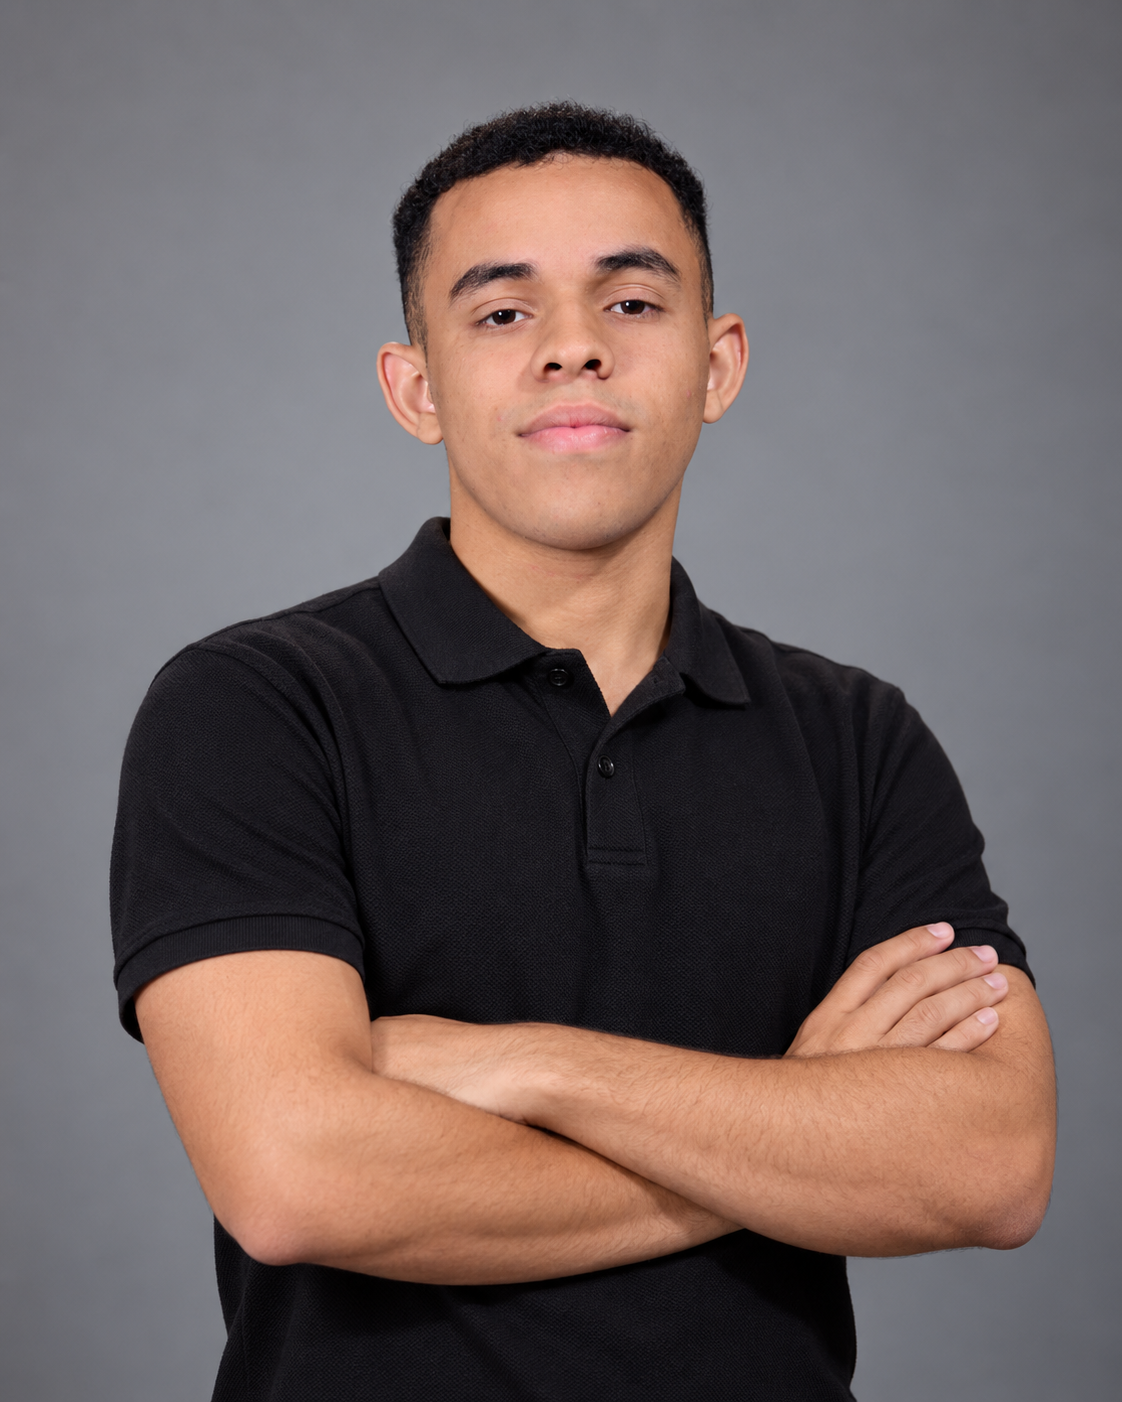
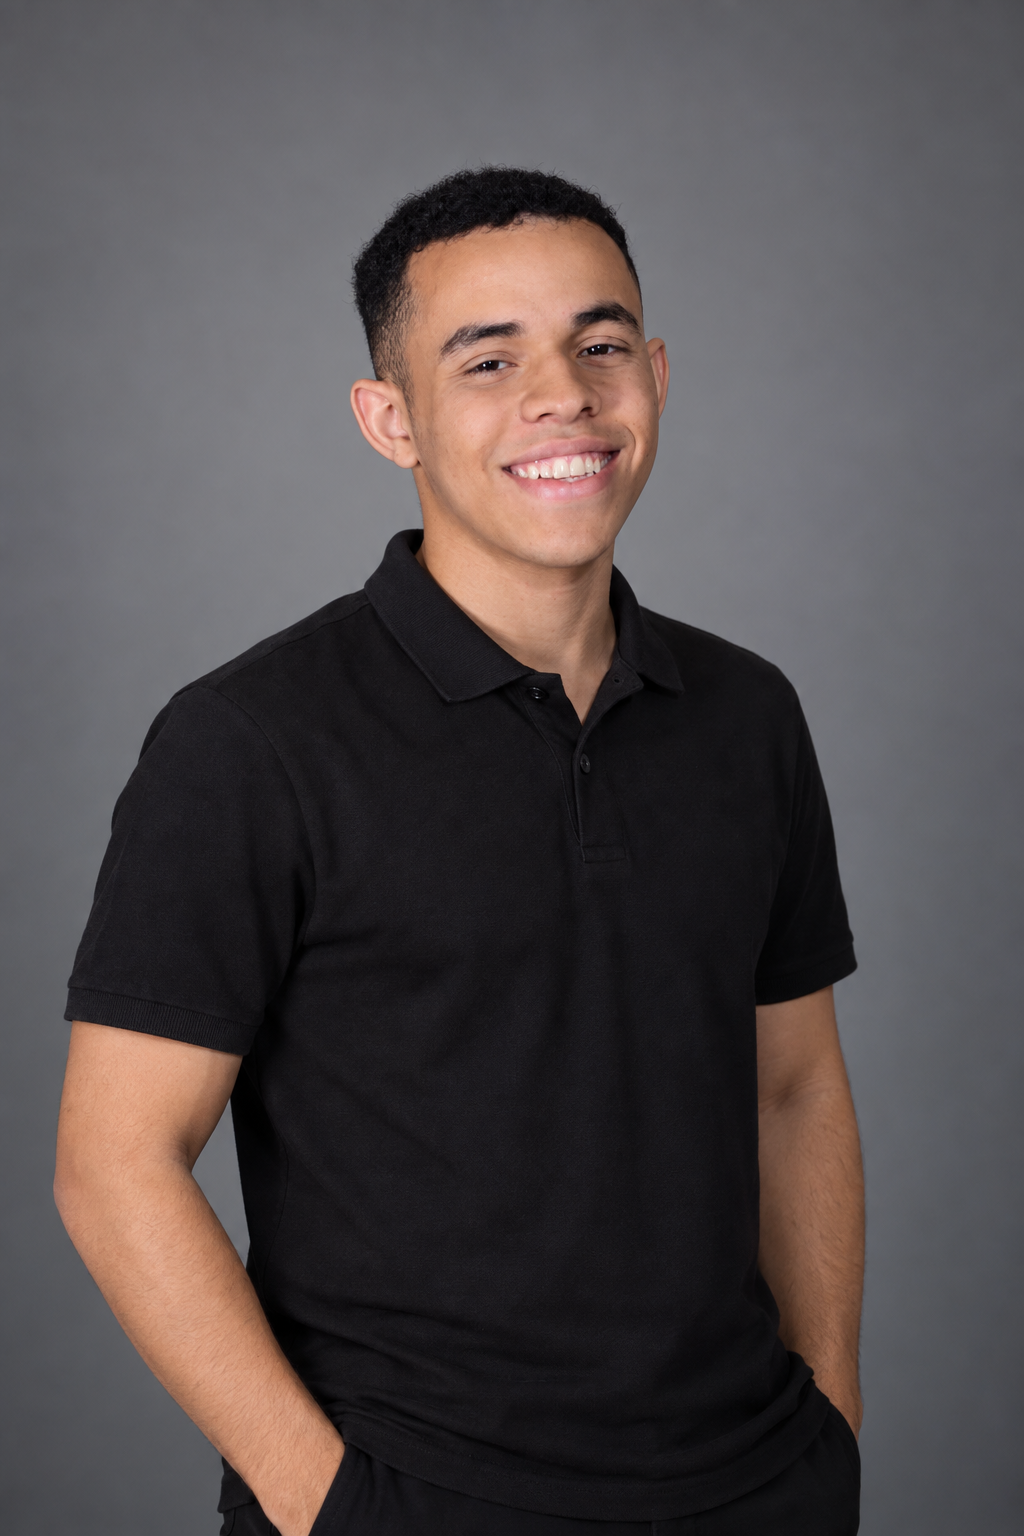
feat: add dark theme and update profile photo

diff --git a/src/app/shared/components/navbar/navbar.html b/src/app/shared/components/navbar/navbar.html
@@ -11,24 +11,44 @@
       }
     </div>
 
-    <a class="contact-link" href="#contato">
-      <span>Contato</span>
-      <svg viewBox="0 0 16 16" aria-hidden="true">
-        <path d="M3 13 13 3M6 3h7v7" />
-      </svg>
-    </a>
+    <div class="nav-actions">
+      <button
+        class="theme-button"
+        type="button"
+        [attr.aria-label]="darkTheme() ? 'Ativar tema claro' : 'Ativar tema escuro'"
+        [attr.title]="darkTheme() ? 'Ativar tema claro' : 'Ativar tema escuro'"
+        (click)="toggleTheme()"
+      >
+        <svg viewBox="0 0 24 24" aria-hidden="true">
+          @if (darkTheme()) {
+            <circle cx="12" cy="12" r="4" />
+            <path d="M12 2v2m0 16v2M4.9 4.9l1.4 1.4m11.4 11.4 1.4 1.4M2 12h2m16 0h2M4.9 19.1l1.4-1.4M17.7 6.3l1.4-1.4" />
+          } @else {
+            <path d="M20.5 15.5A8.5 8.5 0 0 1 8.5 3.5 8.5 8.5 0 1 0 20.5 15.5Z" />
+          }
+        </svg>
+        <span class="theme-label">{{ darkTheme() ? 'Tema claro' : 'Tema escuro' }}</span>
+      </button>
 
-    <button
-      class="menu-button"
-      type="button"
-      [attr.aria-label]="menuOpen() ? 'Fechar menu de navegação' : 'Abrir menu de navegação'"
-      [attr.aria-expanded]="menuOpen()"
-      aria-controls="mobile-navigation"
-      (click)="onClickToggleMenu()"
-    >
-      <span></span>
-      <span></span>
-    </button>
+      <a class="contact-link" href="#contato">
+        <span>Contato</span>
+        <svg viewBox="0 0 16 16" aria-hidden="true">
+          <path d="M3 13 13 3M6 3h7v7" />
+        </svg>
+      </a>
+
+      <button
+        class="menu-button"
+        type="button"
+        [attr.aria-label]="menuOpen() ? 'Fechar menu de navegação' : 'Abrir menu de navegação'"
+        [attr.aria-expanded]="menuOpen()"
+        aria-controls="mobile-navigation"
+        (click)="onClickToggleMenu()"
+      >
+        <span></span>
+        <span></span>
+      </button>
+    </div>
 
     @if (menuOpen()) {
       <div class="mobile-nav" id="mobile-navigation">

diff --git a/src/app/shared/components/navbar/navbar.scss b/src/app/shared/components/navbar/navbar.scss
@@ -35,7 +35,7 @@
   height: 2.5rem;
   display: grid;
   place-items: center;
-  background: var(--color-primary);
+  background: var(--color-action);
   color: var(--color-surface);
   font-family: var(--font-display);
   font-size: 0.77rem;
@@ -57,6 +57,43 @@
   display: flex;
   align-items: center;
   gap: clamp(1.1rem, 2.2vw, 2.2rem);
+}
+
+.nav-actions {
+  display: flex;
+  align-items: center;
+  gap: 0.75rem;
+}
+
+.theme-button {
+  min-height: 2.75rem;
+  display: inline-flex;
+  align-items: center;
+  justify-content: center;
+  gap: 0.55rem;
+  padding: 0.55rem 0.75rem;
+  border: 1px solid var(--color-line);
+  background: var(--color-panel);
+  color: var(--color-ink);
+  cursor: pointer;
+  font-size: 0.78rem;
+  font-weight: 650;
+  white-space: nowrap;
+}
+
+.theme-button:hover {
+  border-color: var(--color-primary);
+  color: var(--color-primary);
+}
+
+.theme-button svg {
+  width: 1.15rem;
+  height: 1.15rem;
+  fill: none;
+  stroke: currentColor;
+  stroke-width: 1.7;
+  stroke-linecap: round;
+  stroke-linejoin: round;
 }
 
 .nav-links a,
@@ -107,7 +144,7 @@
 }
 
 .contact-link:hover {
-  color: var(--color-surface);
+  color: var(--color-paper);
   background: var(--color-ink);
 }
 
@@ -116,7 +153,7 @@
   width: 3rem;
   height: 3rem;
   border: 1px solid var(--color-line);
-  background: var(--color-surface);
+  background: var(--color-panel);
   color: var(--color-ink);
   cursor: pointer;
 }
@@ -153,6 +190,17 @@
   border-bottom: 0;
 }
 
+@media (max-width: 1100px) {
+  .theme-label {
+    display: none;
+  }
+
+  .theme-button {
+    width: 2.75rem;
+    padding: 0;
+  }
+}
+
 @media (max-width: 950px) {
   .nav-shell {
     grid-template-columns: auto 1fr auto;
@@ -165,7 +213,6 @@
 
   .menu-button {
     display: block;
-    grid-column: 3;
   }
 }
 
@@ -176,6 +223,11 @@
 
   .nav-shell {
     min-height: 4.25rem;
+    gap: 0.75rem;
+  }
+
+  .nav-actions {
+    gap: 0.5rem;
   }
 
   .brand-name {

diff --git a/src/styles.scss b/src/styles.scss
@@ -4,13 +4,16 @@
 :root {
   --color-paper: #f4f8fd;
   --color-surface: #ffffff;
+  --color-panel: #ffffff;
   --color-ink: #061a33;
   --color-muted: #52677f;
   --color-primary: #0a5bea;
-  --color-primary-hover: #084dc6;
+  --color-action: #0a5bea;
+  --color-action-hover: #084dc6;
   --color-deep: #051f46;
   --color-line: #c8d7e9;
   --color-soft-blue: #dcebff;
+  --color-accent-soft-text: #dcebff;
   --color-focus: #8fc0ff;
   --font-display: 'Sora Variable', 'Sora', Arial, sans-serif;
   --font-body: 'Manrope Variable', 'Manrope', Arial, sans-serif;
@@ -29,6 +32,26 @@
   text-rendering: optimizeLegibility;
   scrollbar-color: var(--scrollbar-thumb) var(--scrollbar-track);
   scrollbar-width: thin;
+}
+
+:root[data-theme='dark'] {
+  --color-paper: #0b1728;
+  --color-panel: #14283e;
+  --color-ink: #eef5ff;
+  --color-muted: #b1c4d9;
+  --color-primary: #94c1ff;
+  --color-action: #2156a5;
+  --color-action-hover: #2867c2;
+  --color-deep: #0d2949;
+  --color-line: #36506a;
+  --color-soft-blue: #1c3654;
+  --color-accent-soft-text: #d5e8ff;
+  --color-focus: #b3d5ff;
+  --scrollbar-thumb: #6d91b8;
+  --scrollbar-thumb-hover: #a9cbff;
+  --scrollbar-track: #14283e;
+
+  color-scheme: dark;
 }
 
 * {
@@ -78,7 +101,7 @@ button {
 
 ::selection {
   color: var(--color-surface);
-  background: var(--color-primary);
+  background: var(--color-action);
 }
 
 *::-webkit-scrollbar {

diff --git a/src/app/shared/components/navbar/navbar.ts b/src/app/shared/components/navbar/navbar.ts
@@ -12,6 +12,9 @@ interface NavItem {
 })
 export class Navbar {
   protected readonly menuOpen = signal(false);
+  protected readonly darkTheme = signal(
+    typeof document !== 'undefined' && document.documentElement.dataset['theme'] === 'dark',
+  );
 
   protected readonly navigation: readonly NavItem[] = [
     { label: 'Projetos', href: '#projetos' },
@@ -27,6 +30,22 @@ export class Navbar {
 
   protected closeMenu(): void {
     this.menuOpen.set(false);
+  }
+
+  protected toggleTheme(): void {
+    const theme = this.darkTheme() ? 'light' : 'dark';
+    this.darkTheme.set(theme === 'dark');
+    document.documentElement.dataset['theme'] = theme;
+    document.querySelector<HTMLMetaElement>('meta[name="theme-color"]')?.setAttribute(
+      'content',
+      theme === 'dark' ? '#0b1728' : '#f4f8fd',
+    );
+
+    try {
+      localStorage.setItem('portfolio-theme', theme);
+    } catch {
+      // Theme switching still works when storage is unavailable.
+    }
   }
 
   @HostListener('document:keydown.escape')

diff --git a/src/index.html b/src/index.html
@@ -10,6 +10,16 @@
       content="Portfólio de Raí Abreu Machado com projetos de desenvolvimento full stack e robótica."
     />
     <meta name="theme-color" content="#F4F8FD" />
+    <script>
+      try {
+        if (localStorage.getItem('portfolio-theme') === 'dark') {
+          document.documentElement.dataset.theme = 'dark';
+          document.querySelector('meta[name="theme-color"]').setAttribute('content', '#0b1728');
+        }
+      } catch {
+        // The light theme remains available when storage is blocked.
+      }
+    </script>
     <meta property="og:type" content="website" />
     <meta property="og:locale" content="pt_BR" />
     <meta property="og:title" content="Raí Abreu Machado | Desenvolvedor Full Stack" />

diff --git a/src/app/features/home/components/hero/hero.scss b/src/app/features/home/components/hero/hero.scss
@@ -51,7 +51,7 @@ h1 span {
   gap: 1.4rem;
   min-height: 3rem;
   padding: 0.8rem 1.2rem;
-  background: var(--color-primary);
+  background: var(--color-action);
   color: var(--color-surface);
   text-decoration: none;
   border-radius: var(--radius-control);
@@ -60,7 +60,7 @@ h1 span {
   transition: background 180ms;
 }
 .button:hover {
-  background: var(--color-primary-hover);
+  background: var(--color-action-hover);
 }
 .text-link {
   display: inline-flex;

diff --git a/src/app/features/home/components/contact/contact.scss b/src/app/features/home/components/contact/contact.scss
@@ -3,11 +3,11 @@
 }
 .contact {
   padding-block: clamp(3rem, 6vw, 5rem);
-  background: var(--color-primary);
+  background: var(--color-action);
   color: var(--color-surface);
 }
 .contact .section-kicker {
-  color: var(--color-soft-blue);
+  color: var(--color-accent-soft-text);
 }
 .contact-bottom {
   display: grid;

diff --git a/src/app/app.scss b/src/app/app.scss
@@ -8,7 +8,7 @@
   left: 0.75rem;
   z-index: 100;
   padding: 0.75rem 1rem;
-  color: var(--color-surface);
+  color: var(--color-paper);
   background: var(--color-ink);
   text-decoration: none;
   transform: translateY(-160%);

diff --git a/src/app/features/home/components/experience/experience.scss b/src/app/features/home/components/experience/experience.scss
@@ -3,7 +3,7 @@
 }
 .experience {
   padding-block: var(--section-space);
-  background: var(--color-surface);
+  background: var(--color-panel);
 }
 .experience-grid {
   display: grid;

diff --git a/DESIGN.md b/DESIGN.md
@@ -5,14 +5,28 @@ description: 'Portfólio pessoal com apresentação direta, projetos legíveis e
 colors:
   paper: '#F4F8FD'
   surface: '#FFFFFF'
+  panel: '#FFFFFF'
   ink: '#061A33'
   muted: '#52677F'
   primary: '#0A5BEA'
-  primary-hover: '#084DC6'
+  action: '#0A5BEA'
+  action-hover: '#084DC6'
   deep: '#051F46'
   line: '#C8D7E9'
   soft-blue: '#DCEBFF'
   focus: '#8FC0FF'
+darkColors:
+  paper: '#0B1728'
+  panel: '#14283E'
+  ink: '#EEF5FF'
+  muted: '#B1C4D9'
+  primary: '#94C1FF'
+  action: '#2156A5'
+  action-hover: '#2867C2'
+  deep: '#0D2949'
+  line: '#36506A'
+  soft-blue: '#1C3654'
+  focus: '#B3D5FF'
 typography:
   display:
     fontFamily: 'Sora Variable, Sora, Arial, sans-serif'
@@ -31,7 +45,7 @@ spacing:
   page-max: '74rem'
 components:
   button:
-    backgroundColor: '{colors.primary}'
+    backgroundColor: '{colors.action}'
     textColor: '{colors.surface}'
     typography: '{typography.body}'
     rounded: '{rounded.DEFAULT}'
@@ -61,13 +75,13 @@ components:
 
 ## Direção
 
-A apresentação deve parecer um portfólio pessoal: nome, ocupação, foto e trabalhos. A paleta azul original permanece. O conteúdo usa linguagem direta em primeira pessoa, apoiada nos dados existentes, sem slogans ou promessas genéricas.
+A apresentação deve parecer um portfólio pessoal: nome, ocupação, foto e trabalhos. A paleta azul original permanece. O tema escuro usa fundos azul-marinho, texto claro e azul mais luminoso para links; botões e a seção de contato usam um azul mais profundo para manter o texto branco legível. O botão no cabeçalho alterna os temas e guarda a escolha no navegador. O conteúdo usa linguagem direta em primeira pessoa, apoiada nos dados existentes, sem slogans ou promessas genéricas.
 
 ## Organização
 
 Apresentação → projetos → experiência → tecnologias → competições → sobre → contato. A largura máxima é de 74rem e as margens são fluidas. Seções usam espaçamento entre 3.5rem e 6rem. O nome tem a maior escala; títulos de seção variam entre 1.8rem e 2.7rem. Sora e Manrope continuam locais.
 
-Projetos são linhas com ano, contexto, solução, participação e resultado. Os detalhes técnicos do primeiro projeto ficam em um disclosure nativo acessível por teclado. Tecnologias aparecem em listas compactas. Experiência usa fundo branco; galeria usa azul-marinho; contato usa azul. Não há recortes diagonais, coordenadas fictícias, numeração decorativa ou frases de efeito.
+Projetos são linhas com ano, contexto, solução, participação e resultado. Os detalhes técnicos do primeiro projeto ficam em um disclosure nativo acessível por teclado. Tecnologias aparecem em listas compactas. Experiência usa fundo branco no tema claro e um painel azul-marinho no escuro; galeria usa azul-marinho; contato usa azul. Não há recortes diagonais, coordenadas fictícias, numeração decorativa ou frases de efeito.
 
 ## Fotografia e interação
 
